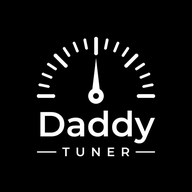
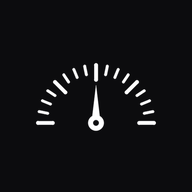
design: 아이콘에서 글자를 빼고 계기판만 남김 (v1.0.8)
Daddy 시리즈 아이콘 규칙은 '그림만, 글자 없음' 이다.
라디오(음파)·가계부(영수증)와 달리 튜너만 'Daddy TUNER' 글자를 달고 있었다.
원래 그림의 계기판을 그대로 살려 가운데에 두고 글자를 뺐다.
192 / 512 / maskable 세 벌 모두 교체.

diff --git a/index.html b/index.html
@@ -4,7 +4,7 @@
     <meta charset="UTF-8">
     <meta name="viewport" content="width=device-width, initial-scale=1.0, viewport-fit=cover">
     <title>Daddy Tuner</title>
-    <link rel="manifest" href="manifest.json?v=1.0.7">
+    <link rel="manifest" href="manifest.json?v=1.0.8">
     <meta name="mobile-web-app-capable" content="yes">
     <meta name="apple-mobile-web-app-capable" content="yes">
     <meta name="apple-mobile-web-app-title" content="Daddy Tuner">
@@ -12,7 +12,7 @@
     <meta name="theme-color" content="#0f172a">
     <link rel="apple-touch-icon" href="icon-512.png">
     <link rel="icon" href="icon-192.png">
-    <link rel="stylesheet" href="app.css?v=1.0.7">
+    <link rel="stylesheet" href="app.css?v=1.0.8">
     <link rel="preconnect" href="https://fonts.googleapis.com">
     <link rel="preconnect" href="https://fonts.gstatic.com" crossorigin>
     <link href="https://fonts.googleapis.com/css2?family=Inter:wght@400;700;800;900&display=swap" rel="stylesheet">
@@ -48,7 +48,7 @@
         </div>
     </div>
 
-    <script type="module" src="app.js?v=1.0.7"></script>
+    <script type="module" src="app.js?v=1.0.8"></script>
     <script>
         // 브라우저 메뉴로 설치하게 두면 바로가기가 잘못 만들어지고,
         // 그러면 브라우저가 '설치됨'으로 기록해 진짜 설치를 막는다. (개발 정책 5항)
@@ -88,7 +88,7 @@
     </script>
     <script>
         if ('serviceWorker' in navigator) {
-            navigator.serviceWorker.register('sw.js?v=1.0.7');
+            navigator.serviceWorker.register('sw.js?v=1.0.8');
         }
     </script>
 </body>

diff --git a/sw.js b/sw.js
@@ -1,6 +1,6 @@
 // 루트가 곧 배포본이다. 버전 폴더(v1.0.x)는 보관용 스냅샷일 뿐 여기서 쓰지 않는다.
 // 파일을 바꾸면 CACHE_NAME 끝 번호를 올린다.
-const CACHE_NAME = 'daddy-tuner-v1.0.7';
+const CACHE_NAME = 'daddy-tuner-v1.0.8';
 
 const ASSETS = [
   './',
